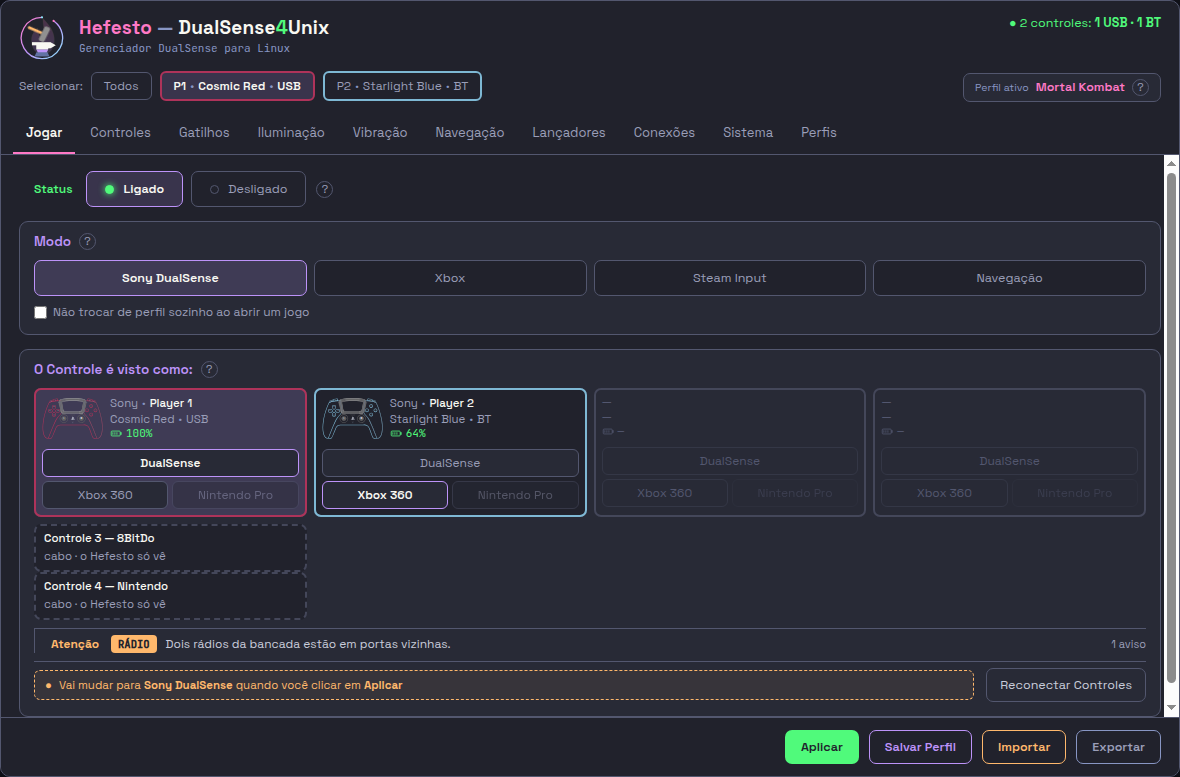
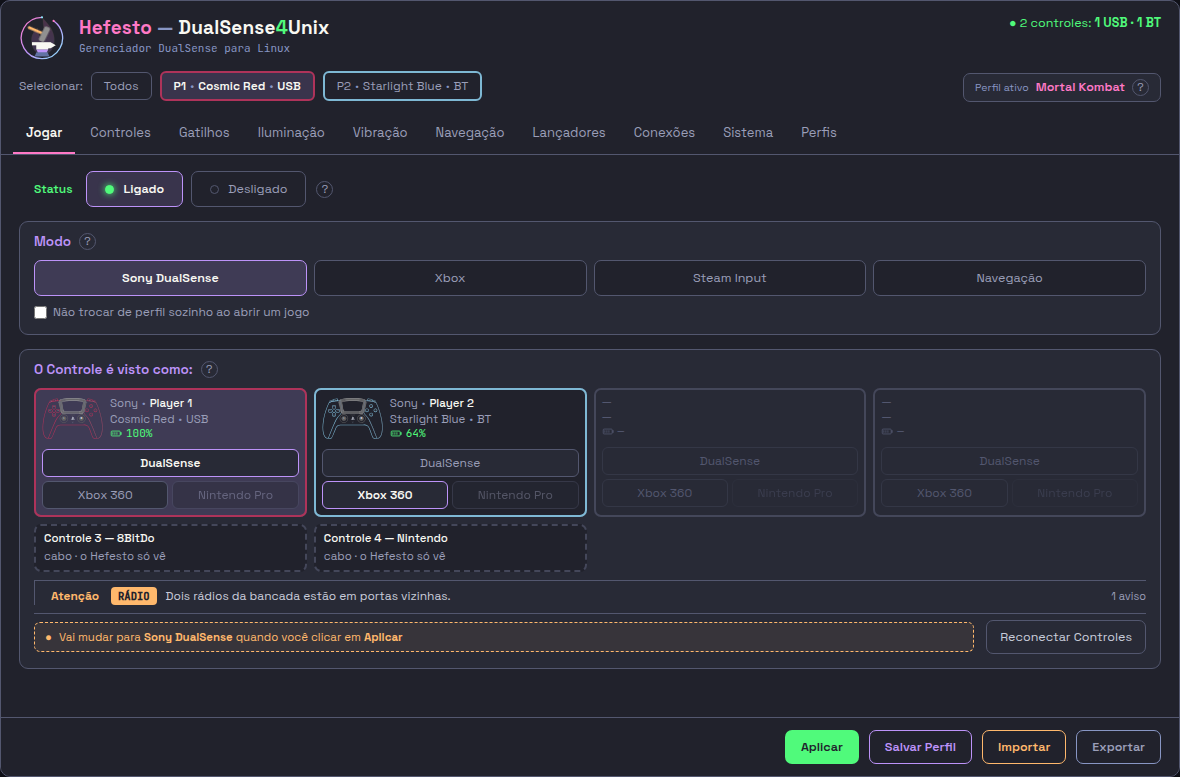
fix(externos): a foto do depois era a da mordida — remedida na integração e trocada

Changed region(s): [[0.0305, 0.6795, 0.8237, 0.8958], [0.8237, 0.1853, 1.0, 0.9266]]

diff --git a/docs/process/agentes/2026-09-06/EXTERNOS-NO-FRAME-opus.md b/docs/process/agentes/2026-09-06/EXTERNOS-NO-FRAME-opus.md
@@ -220,3 +220,32 @@ aqui rodando os 68 arquivos de teste que leem estas duas abas: **1072 passaram,
 Deixei como está: a régua e `docs/usage/` não são posse desta sprint, e a cura é
 apontá-la para `interface/olhar.py --todas --doc`, que é quem fotografa as dez
 páginas hoje.
+
+---
+
+## NOTA DE QUEM COSTUROU — 06/09/2026: a foto do "depois" era a da MORDIDA
+
+A foto `EXTERNOS-NO-FRAME-depois-01-jogar.png` que veio neste commit mostrava os
+dois cartões **empilhados na primeira coluna**, que é o estrago da mordida C
+(`display:contents` → `display:block`), e não a cura. O relógio conta a
+história: `medida.json` (a medição boa, `display: contents`, `l=404/684`) é de
+18:09:59; a foto é de 18:14:33, **quatro minutos depois**, junto de
+`medida-mordida-c.json` (`display: block`, `l=404/404`). O script de medição
+grava a foto e o JSON no mesmo caminho, então a segunda passada — a da mordida —
+sobrescreveu a primeira.
+
+**O código estava certo o tempo todo.** Remedido na árvore de integração depois
+da costura, com o mesmo script apontado para `_integra-0609`:
+
+    01-jogar   display: contents · assentos t=404 l=404/684/964/1243 · externos t=540 l=404/684
+    08-conexoes display: contents · quatro linhas t=293..425 · externos t=456/486, l=405 w=1110
+
+A foto foi refeita a partir dessa medição e substituída. A da aba 08 não mudou
+(md5 idêntico), pelo motivo que o próprio agente declarou: na 08 a mordida C não
+desloca um pixel.
+
+**A REGRA QUE ISSO DEIXA:** *a mordida sobrescreve a prova se as duas escrevem no
+mesmo caminho.* Quem morde depois de fotografar tem de gravar a mordida noutro
+nome — ou refotografar a cura depois de devolvê-la. Uma foto de "depois" que
+mostra o estrago passa por qualquer conferência de prosa: o relatório dizia
+`l=404/684` e a imagem ao lado dizia o contrário, e só o md5 separou os dois.
